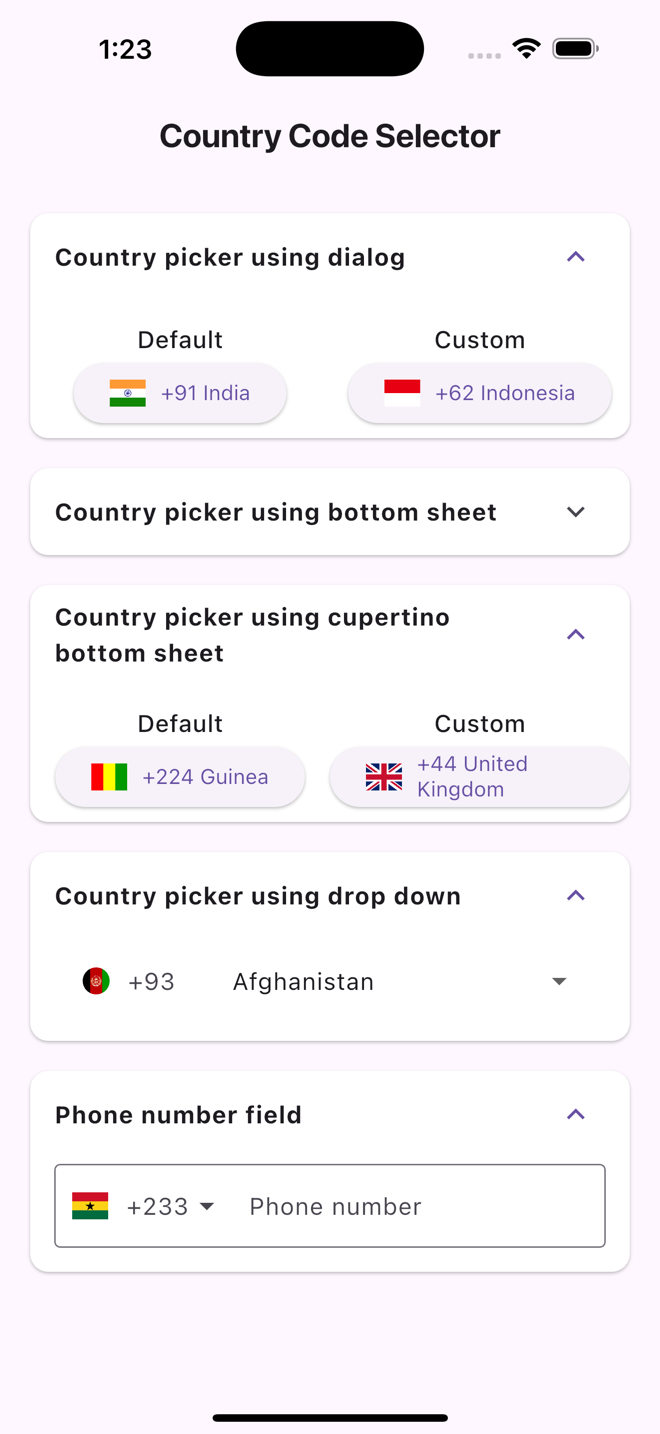
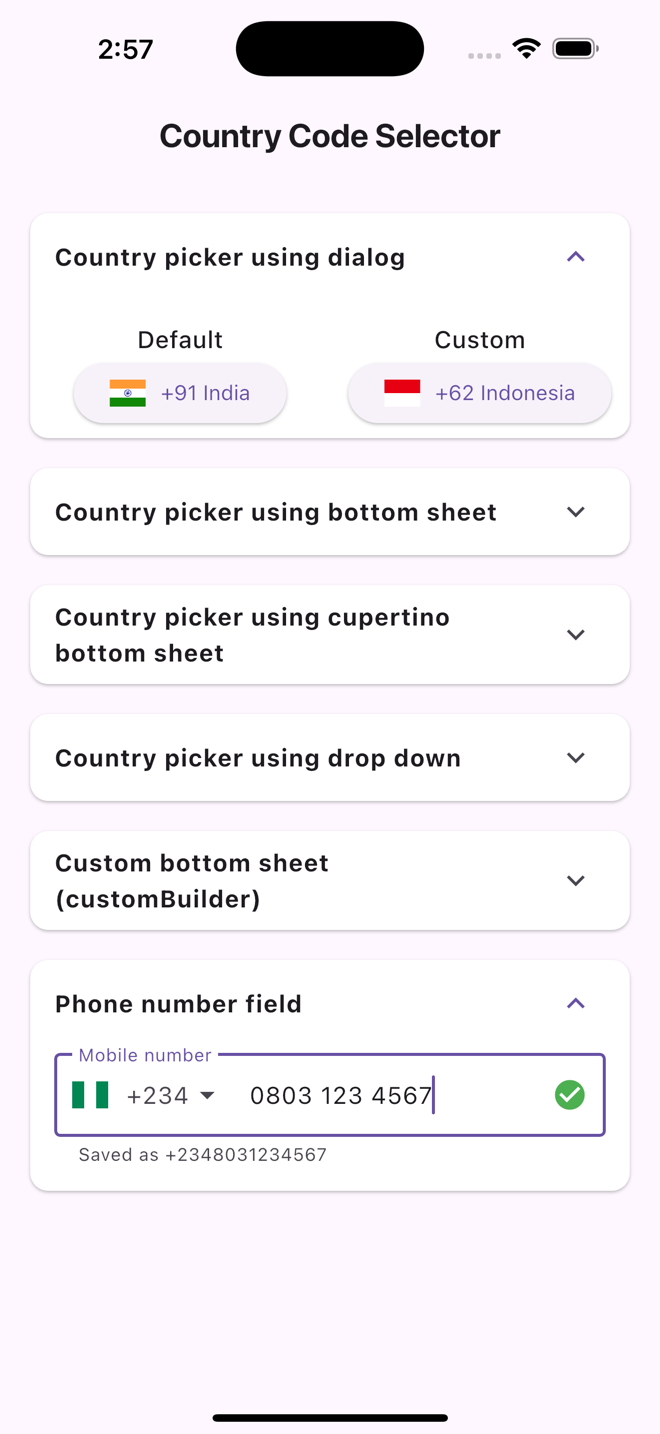
docs: retake the phone field screenshot
Shows the example with its default values and a validated number
("Saved as +2348031234567"), instead of leftover state from testing.

diff --git a/README.md b/README.md
@@ -12,7 +12,7 @@ languages.
   <img src="https://raw.githubusercontent.com/TheinvinciblePrints/country_code_selector/main/doc/screenshots/dialog.png" width="200" alt="Country dialog">
   <img src="https://raw.githubusercontent.com/TheinvinciblePrints/country_code_selector/main/doc/screenshots/bottom_sheet.png" width="200" alt="Bottom sheet with round flags">
   <img src="https://raw.githubusercontent.com/TheinvinciblePrints/country_code_selector/main/doc/screenshots/cupertino.png" width="200" alt="Cupertino wheel">
-  <img src="https://raw.githubusercontent.com/TheinvinciblePrints/country_code_selector/main/doc/screenshots/phone_field.png" width="200" alt="Phone number field">
+  <img src="https://raw.githubusercontent.com/TheinvinciblePrints/country_code_selector/main/doc/screenshots/phone_field.png" width="200" alt="Phone number field with validation">
   <img src="https://raw.githubusercontent.com/TheinvinciblePrints/country_code_selector/main/doc/screenshots/custom_builder.png" width="200" alt="Custom bottom sheet built with customBuilder">
 </p>
 
